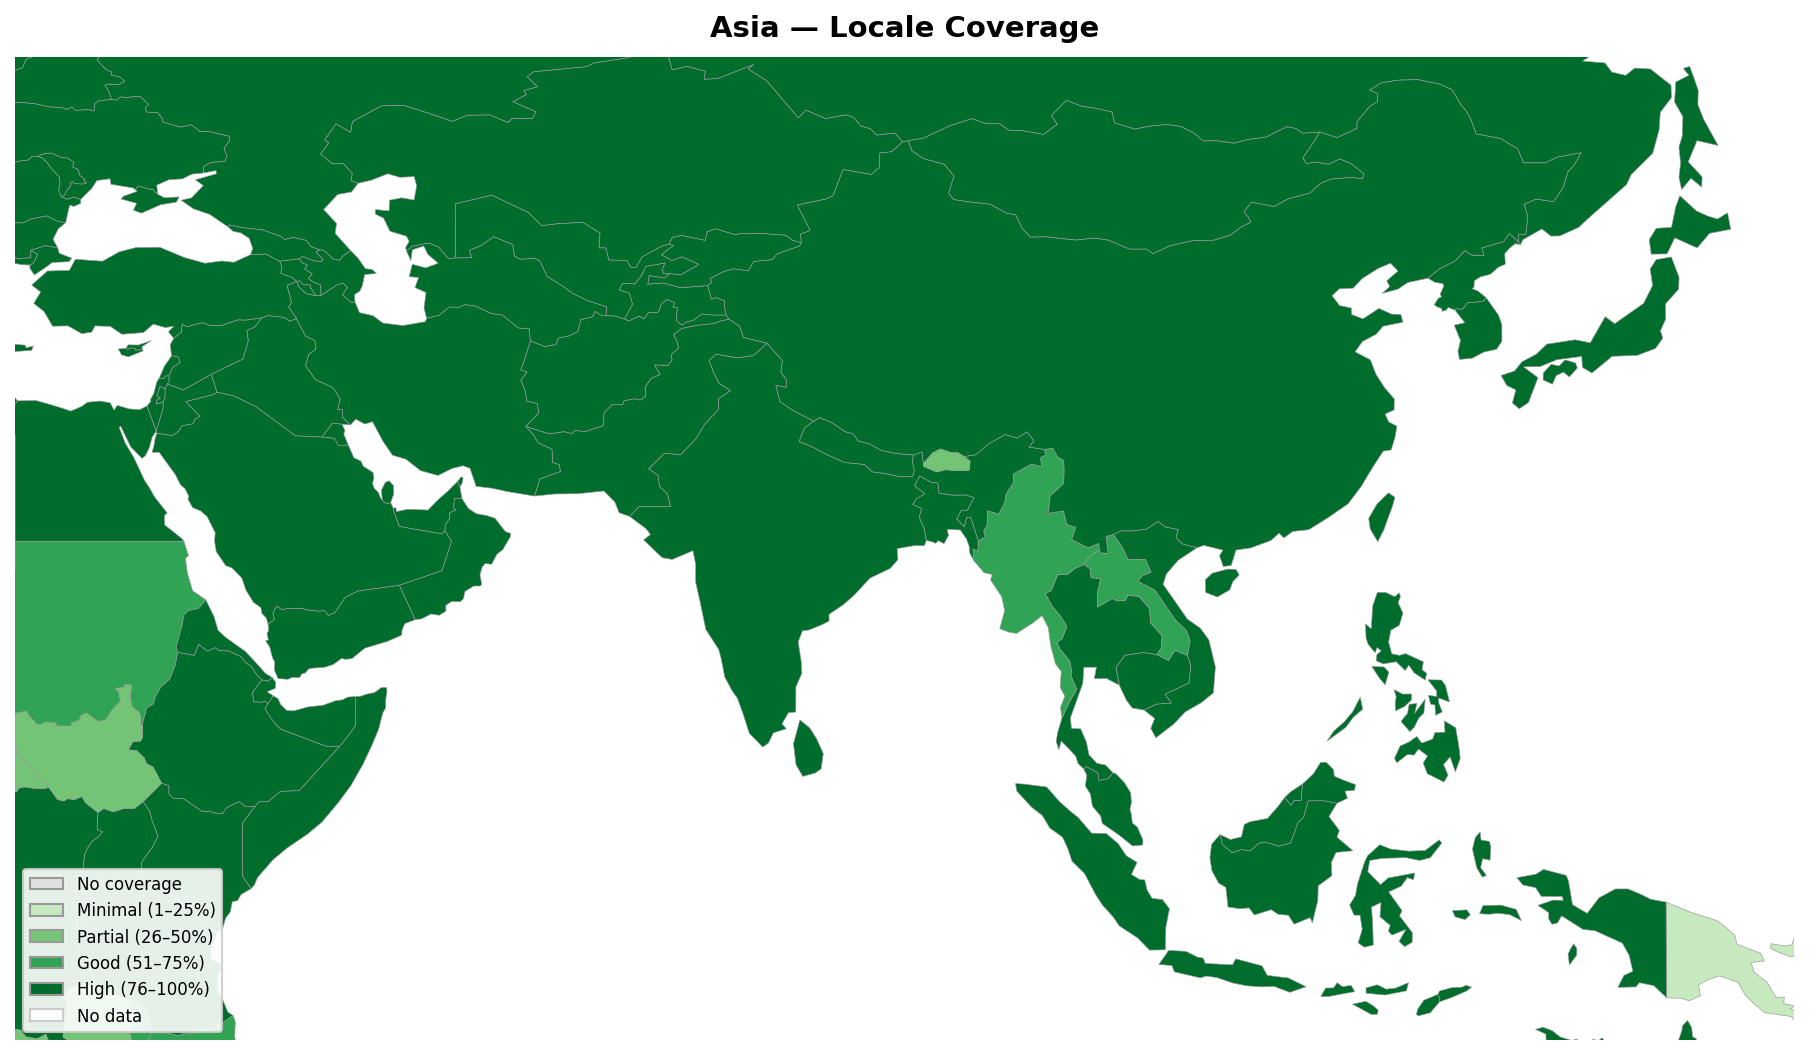
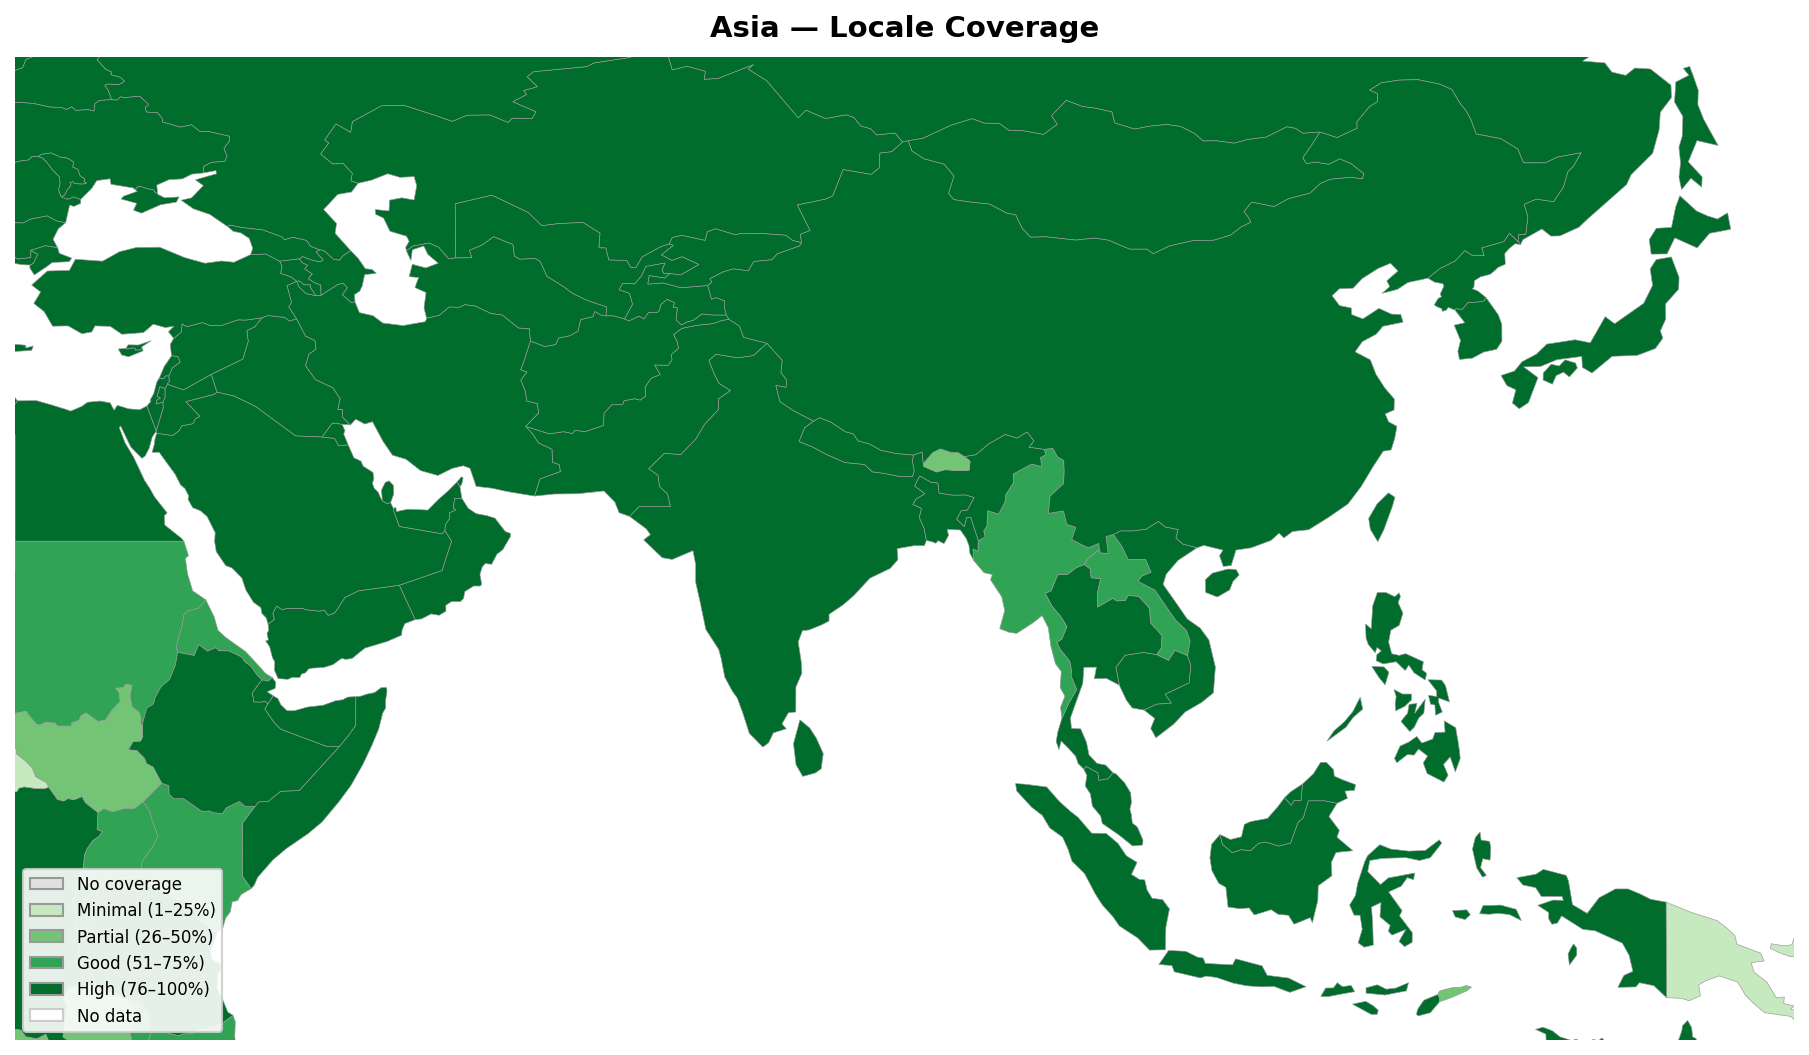
Fix coverage formula for multilingual countries
Coverage was `min(sum_supported, 1.0)`, which hid gaps in countries
where supported languages alone sum over 100% due to multilingual
overlap (e.g. Bolivia: Spanish 84% + Quechua 21% = 105% → showed
100%, hiding the 15% Aymara gap).

New formula: `supported_share / max(total_share, 1.0)`, which
correctly attributes multilingual overlap. Bolivia now shows 88%.

Also fixes the fallback in _coverage_bin which returned a float
instead of a color string.

Changed region(s): [[0.031, 0.728, 0.1548, 0.8493], [0.0929, 0.5763, 0.1548, 0.637], [0.0, 0.728, 0.031, 0.7583]]

diff --git a/tools/geography/generate.py b/tools/geography/generate.py
@@ -50,7 +50,7 @@ _BINS = [
     (0.01, 0.25, "#c7e9c0", "Minimal (1–25%)"),
     (0.26, 0.50, "#74c476", "Partial (26–50%)"),
     (0.51, 0.75, "#31a354", "Good (51–75%)"),
-    (0.76, 1.00, "#006d2c", "High (76–100%)"),
+    (0.76, 1.01, "#006d2c", "High (76–100%)"),
 ]
 
 _NO_DATA_COLOR = "#ffffff"
@@ -122,13 +122,22 @@ def _load_countries() -> dict[str, dict]:
 # ---------------------------------------------------------------------------
 
 def _coverage(country: dict, supported: set[str]) -> float:
-    """Fraction of population covered (capped at 1.0)."""
-    total = sum(
+    """Fraction of population covered.
+
+    In multilingual countries, language proportions sum > 1.0 because
+    individuals speak multiple languages.  We compute coverage as the
+    ratio of supported-language share to total share, which correctly
+    attributes multilingual overlap.  When all languages sum <= 1.0
+    (remaining population speaks unlisted languages), the supported
+    share is used directly.
+    """
+    supported_share = sum(
         lang["proportion"]
         for lang in country["languages"]
         if lang["code"] in supported
     )
-    return min(total, 1.0)
+    total_share = sum(lang["proportion"] for lang in country["languages"])
+    return min(supported_share / max(total_share, 1.0), 1.0)
 
 
 def _coverage_bin(value: float) -> tuple[str, str]:
@@ -136,7 +145,7 @@ def _coverage_bin(value: float) -> tuple[str, str]:
     for lo, hi, color, label in _BINS:
         if lo <= value <= hi:
             return color, label
-    return _BINS[-1][1], _BINS[-1][2]
+    return _BINS[-1][2], _BINS[-1][3]
 
 
 # ---------------------------------------------------------------------------

diff --git a/docs/geography/africa.md b/docs/geography/africa.md
@@ -9,64 +9,64 @@
 ## Summary
 
 - **Countries**: 52
-- **Average coverage**: 69%
+- **Average coverage**: 64%
 
 ## Countries
 
 | Country | Coverage | Covered Languages | Uncovered Languages |
 |---------|:--------:|-------------------|---------------------|
 | Algeria | 100% | Arabic (72%), Tamazight (27%), French (33%) | — |
-| Angola | 74% | Portuguese (71%), Lingala (3%) | Umbundu (17%), Kimbundu (11%), Kikongo/Kituba (7%), Chokwe (7%) |
+| Angola | 64% | Portuguese (71%), Lingala (3%) | Umbundu (17%), Kimbundu (11%), Kikongo/Kituba (7%), Chokwe (7%) |
 | Benin | 47% | French (35%), Yoruba (12%) | Fon (24%), Bariba (10%), Aja (8%) |
-| Botswana | 32% | English (30%), Shona (2%) | Tswana (78%), Kalanga (17%) |
+| Botswana | 25% | English (30%), Shona (2%) | Tswana (78%), Kalanga (17%) |
 | Burkina Faso | 33% | French (25%), Fulfulde (8%) | Moore (Mossi) (52%), Dyula (6%), Gourmanche (6%) |
 | Burundi | 100% | Kirundi (97%), French (8%), Swahili (2%), English (3%) | — |
-| Cameroon | 86% | French (57%), English (22%), Fulfulde (7%) | Bamileke languages (15%), Ewondo (8%) |
-| Central African Republic | 28% | French (23%), Lingala (5%) | Sango (92%) |
+| Cameroon | 79% | French (57%), English (22%), Fulfulde (7%) | Bamileke languages (15%), Ewondo (8%) |
+| Central African Republic | 23% | French (23%), Lingala (5%) | Sango (92%) |
 | Chad | 39% | French (13%), Arabic (26%) | Sara (Ngambay) (31%), Kanuri (10%) |
-| Comoros | 35% | Arabic (20%), French (15%) | Comorian (Shikomori) (97%) |
-| Congo | 90% | French (60%), Lingala (30%) | Kituba (Munukutuba) (50%) |
+| Comoros | 27% | Arabic (20%), French (15%) | Comorian (Shikomori) (97%) |
+| Congo | 64% | French (60%), Lingala (30%) | Kituba (Munukutuba) (50%) |
 | Cote d'Ivoire | 34% | French (34%) | Baoule (17%), Dyula (15%), Senufo (9%), Bete (6%) |
-| Democratic Republic of the Congo | 90% | French (51%), Lingala (20%), Swahili (15%), Luganda (4%) | Kituba (Kikongo) (10%), Tshiluba (6%) |
+| Democratic Republic of the Congo | 85% | French (51%), Lingala (20%), Swahili (15%), Luganda (4%) | Kituba (Kikongo) (10%), Tshiluba (6%) |
 | Djibouti | 100% | French (34%), Arabic (11%), Somali (60%), Afar (34%) | — |
 | Egypt | 100% | Arabic (94%), English (14%), French (3%) | — |
 | Equatorial Guinea | 100% | Spanish (68%), French (27%), Portuguese (5%) | — |
-| Eritrea | 80% | Tigrinya (55%), Arabic (20%), English (5%) | Tigre (30%) |
-| Eswatini | 20% | English (20%) | Swazi (siSwati) (95%) |
+| Eritrea | 73% | Tigrinya (55%), Arabic (20%), English (5%) | Tigre (30%) |
+| Eswatini | 17% | English (20%) | Swazi (siSwati) (95%) |
 | Ethiopia | 83% | Amharic (32%), Oromo (34%), Somali (6%), Tigrinya (6%), English (5%) | — |
-| Gabon | 80% | French (80%) | Fang (32%) |
-| Gambia | 40% | English (20%), Fulfulde (18%), Yoruba (2%) | Mandinka (38%), Wolof (18%), Soninke (9%) |
-| Ghana | 100% | English (58%), Akan (44%), Hausa (5%), Igbo (1%), Yoruba (1%) | Ewe (13%), Ga-Dangme (7%), Dagbani (5%) |
-| Guinea | 79% | French (25%), Fulfulde (33%), Susu (21%) | Maninka (23%) |
-| Guinea-Bissau | 30% | Portuguese (14%), Fulfulde (16%) | Guinea-Bissau Creole (50%), Balanta (22%), Mandinka (7%) |
-| Kenya | 100% | Swahili (67%), English (31%), Ganda (1%), Somali (1%) | Kikuyu (17%), Luhya (14%), Kalenjin (13%), Dholuo (Luo) (11%), Kamba (10%) |
-| Lesotho | 32% | English (30%), Zulu (2%) | Sesotho (Southern Sotho) (90%) |
+| Gabon | 71% | French (80%) | Fang (32%) |
+| Gambia | 38% | English (20%), Fulfulde (18%), Yoruba (2%) | Mandinka (38%), Wolof (18%), Soninke (9%) |
+| Ghana | 81% | English (58%), Akan (44%), Hausa (5%), Igbo (1%), Yoruba (1%) | Ewe (13%), Ga-Dangme (7%), Dagbani (5%) |
+| Guinea | 77% | French (25%), Fulfulde (33%), Susu (21%) | Maninka (23%) |
+| Guinea-Bissau | 28% | Portuguese (14%), Fulfulde (16%) | Guinea-Bissau Creole (50%), Balanta (22%), Mandinka (7%) |
+| Kenya | 61% | Swahili (67%), English (31%), Ganda (1%), Somali (1%) | Kikuyu (17%), Luhya (14%), Kalenjin (13%), Dholuo (Luo) (11%), Kamba (10%) |
+| Lesotho | 26% | English (30%), Zulu (2%) | Sesotho (Southern Sotho) (90%) |
 | Liberia | 20% | English (20%) | Kpelle (20%), Bassa (13%), Grebo (10%), Dan (Gio) (8%), Mano (8%) |
 | Libya | 95% | Arabic (95%) | — |
 | Madagascar | 100% | Malagasy (95%), French (20%), English (5%) | — |
-| Malawi | 72% | Chewa (57%), English (15%) | Lomwe (15%), Yao (14%), Tumbuka (9%) |
+| Malawi | 65% | Chewa (57%), English (15%) | Lomwe (15%), Yao (14%), Tumbuka (9%) |
 | Mali | 34% | French (20%), Fulfulde (14%) | Bambara (50%), Soninke (9%) |
 | Mauritania | 100% | Arabic (80%), French (15%), Fulfulde (8%) | — |
-| Mauritius | 100% | English (50%), French (73%), Hindi (3%) | Mauritian Creole (87%) |
+| Mauritius | 59% | English (50%), French (73%), Hindi (3%) | Mauritian Creole (87%) |
 | Morocco | 100% | Arabic (65%), Tamazight (26%), French (33%) | — |
 | Mozambique | 56% | Portuguese (50%), Swahili (6%) | Makhuwa (26%), Tsonga (9%), Sena (7%) |
-| Namibia | 29% | English (17%), Afrikaans (11%), German (1%) | Oshiwambo (49%), Khoekhoegowab (Nama/Damara) (11%), RuKwangali (9%), Otjiherero (9%) |
-| Niger | 73% | French (13%), Hausa (53%), Fulfulde (6%), Arabic (1%) | Zarma-Songhay (21%), Tamasheq (9%) |
-| Nigeria | 100% | English (53%), Hausa (27%), Yoruba (15%), Igbo (12%), Fulfulde (5%) | Ijaw languages (10%), Kanuri (5%), Tiv (5%), Ibibio (5%) |
+| Namibia | 27% | English (17%), Afrikaans (11%), German (1%) | Oshiwambo (49%), Khoekhoegowab (Nama/Damara) (11%), RuKwangali (9%), Otjiherero (9%) |
+| Niger | 71% | French (13%), Hausa (53%), Fulfulde (6%), Arabic (1%) | Zarma-Songhay (21%), Tamasheq (9%) |
+| Nigeria | 82% | English (53%), Hausa (27%), Yoruba (15%), Igbo (12%), Fulfulde (5%) | Ijaw languages (10%), Kanuri (5%), Tiv (5%), Ibibio (5%) |
 | Rwanda | 100% | Kinyarwanda (93%), French (8%), English (15%), Swahili (2%) | — |
-| Senegal | 49% | French (26%), Fulfulde (23%) | Wolof (50%), Serer (11%), Soninke (5%) |
+| Senegal | 43% | French (26%), Fulfulde (23%) | Wolof (50%), Serer (11%), Soninke (5%) |
 | Sierra Leone | 20% | English (20%) | Mende (31%), Temne (32%), Krio (10%) |
 | Somalia | 100% | Somali (95%), Arabic (20%), English (5%) | — |
-| South Africa | 63% | Zulu (23%), Xhosa (16%), Afrikaans (13%), English (10%), Shona (1%) | Northern Sotho (Sepedi) (10%), Tswana (8%), Southern Sotho (8%), Tsonga (5%), Swazi (siSwati) (3%), Venda (2%), Southern Ndebele (2%) |
+| South Africa | 62% | Zulu (23%), Xhosa (16%), Afrikaans (13%), English (10%), Shona (1%) | Northern Sotho (Sepedi) (10%), Tswana (8%), Southern Sotho (8%), Tsonga (5%), Swazi (siSwati) (3%), Venda (2%), Southern Ndebele (2%) |
 | South Sudan | 27% | English (10%), Arabic (15%), Swahili (2%) | Dinka (36%), Nuer (16%), Bari (7%), Zande (6%), Shilluk (5%) |
-| Sudan | 75% | Arabic (70%), English (5%) | Beja (12%), Nubian languages (8%), Fur (6%) |
-| Tanzania | 100% | Swahili (90%), English (15%) | Sukuma (16%) |
+| Sudan | 74% | Arabic (70%), English (5%) | Beja (12%), Nubian languages (8%), Fur (6%) |
+| Tanzania | 87% | Swahili (90%), English (15%) | Sukuma (16%) |
 | Togo | 37% | French (37%) | Ewe (26%), Kabiye (27%) |
 | Tunisia | 100% | Arabic (93%), French (52%), English (8%) | — |
-| Uganda | 78% | English (30%), Swahili (30%), Luganda (16%), Chewa (2%) | Nyankore (Runyankole) (10%), Soga (Lusoga) (10%), Teso (10%), Lango (6%), Acholi (5%) |
+| Uganda | 66% | English (30%), Swahili (30%), Luganda (16%), Chewa (2%) | Nyankore (Runyankole) (10%), Soga (Lusoga) (10%), Teso (10%), Lango (6%), Acholi (5%) |
 | Western Sahara | 90% | Arabic (90%) | — |
 | Zambia | 35% | English (20%), Chewa (15%) | Bemba (35%), Tonga (12%), Lozi (6%) |
-| Zimbabwe | 100% | English (30%), Shona (70%) | Northern Ndebele (16%) |
+| Zimbabwe | 86% | English (30%), Shona (70%) | Northern Ndebele (16%) |
 
 ---
 

diff --git a/docs/geography/asia.md b/docs/geography/asia.md
@@ -39,7 +39,7 @@
 | Laos | 59% | Lao (53%), French (3%), English (3%) | Khmu (11%), Hmong (9%) |
 | Lebanon | 100% | Arabic (93%), French (40%), English (30%), Armenian (4%) | — |
 | Malaysia | 100% | Malay (69%), English (50%), Chinese (23%), Tamil (7%) | — |
-| Maldives | 25% | English (25%) | Dhivehi (Maldivian) (99%) |
+| Maldives | 20% | English (25%) | Dhivehi (Maldivian) (99%) |
 | Mongolia | 100% | Mongolian (95%), Russian (5%), English (10%) | — |
 | Myanmar | 73% | Burmese (68%), English (5%) | Shan (9%), Karen languages (7%) |
 | Nepal | 93% | Nepali (77%), Hindi (8%), English (8%) | — |
@@ -57,7 +57,7 @@
 | Taiwan | 100% | Chinese (Mandarin) (83%), English (28%), Japanese (6%) | — |
 | Tajikistan | 100% | Tajik (80%), Russian (28%), Uzbek (17%) | — |
 | Thailand | 100% | Thai (92%), Malay (3%), English (15%), Chinese (11%) | — |
-| Timor-Leste | 88% | Portuguese (36%), Indonesian (36%), English (16%) | Tetum (91%) |
+| Timor-Leste | 49% | Portuguese (36%), Indonesian (36%), English (16%) | Tetum (91%) |
 | Turkey | 100% | Turkish (88%), Kurdish (12%), Arabic (2%), English (17%) | — |
 | Turkmenistan | 100% | Turkmen (85%), Russian (12%), Uzbek (5%) | — |
 | United Arab Emirates | 100% | Arabic (40%), English (70%), Hindi (15%), Urdu (10%), Malayalam (8%), Filipino (6%), Bengali (4%) | — |

diff --git a/docs/geography/README.md b/docs/geography/README.md
@@ -11,22 +11,22 @@ How well do Sayable's locales cover the world's languages?
 | Metric | Count |
 |--------|------:|
 | Countries tracked | 178 |
-| 100% coverage | 104 |
-| 76–100% (high) | 145 |
-| 51–75% (good) | 155 |
-| 1–50% (some) | 23 |
+| 100% coverage | 96 |
+| 76–100% (high) | 135 |
+| 51–75% (good) | 154 |
+| 1–50% (some) | 24 |
 | 0% (none) | 0 |
 
 ## By Continent
 
 | Continent | Countries | Avg Coverage | Details |
 |-----------|----------:|-------------:|--------:|
-| Africa | 52 | 69% | [Africa](africa.md) |
+| Africa | 52 | 64% | [Africa](africa.md) |
 | Asia | 49 | 94% | [Asia](asia.md) |
 | Europe | 39 | 98% | [Europe](europe.md) |
-| North America | 19 | 98% | [North America](north-america.md) |
-| Oceania | 7 | 65% | [Oceania](oceania.md) |
-| South America | 12 | 98% | [South America](south-america.md) |
+| North America | 19 | 95% | [North America](north-america.md) |
+| Oceania | 7 | 62% | [Oceania](oceania.md) |
+| South America | 12 | 97% | [South America](south-america.md) |
 
 ## Supported Locales (110)
 

diff --git a/docs/geography/north-america.md b/docs/geography/north-america.md
@@ -9,7 +9,7 @@
 ## Summary
 
 - **Countries**: 19
-- **Average coverage**: 98%
+- **Average coverage**: 95%
 
 ## Countries
 
@@ -23,8 +23,8 @@
 | Cuba | 95% | Spanish (95%) | — |
 | Dominican Republic | 100% | Spanish (95%), English (8%) | — |
 | El Salvador | 99% | Spanish (99%) | — |
-| Greenland | 91% | Danish (66%), English (25%) | Kalaallisut (Greenlandic) (85%) |
-| Guatemala | 93% | Spanish (93%) | K'iche' (9%), Kaqchikel (8%), Mam (8%), Q'eqchi' (6%) |
+| Greenland | 52% | Danish (66%), English (25%) | Kalaallisut (Greenlandic) (85%) |
+| Guatemala | 75% | Spanish (93%) | K'iche' (9%), Kaqchikel (8%), Mam (8%), Q'eqchi' (6%) |
 | Haiti | 100% | Haitian Creole (96%), French (10%) | — |
 | Honduras | 100% | Spanish (98%), English (4%) | — |
 | Jamaica | 95% | English (95%) | — |

diff --git a/docs/geography/oceania.md b/docs/geography/oceania.md
@@ -9,14 +9,14 @@
 ## Summary
 
 - **Countries**: 7
-- **Average coverage**: 65%
+- **Average coverage**: 62%
 
 ## Countries
 
 | Country | Coverage | Covered Languages | Uncovered Languages |
 |---------|:--------:|-------------------|---------------------|
 | Australia | 85% | English (72%), Chinese (5%), Arabic (2%), Vietnamese (1%), Italian (1%), Greek (1%), Hindi (2%), Punjabi (1%) | — |
-| Fiji | 88% | English (55%), Hindi (33%) | Fijian (iTaukei) (54%) |
+| Fiji | 62% | English (55%), Hindi (33%) | Fijian (iTaukei) (54%) |
 | New Caledonia | 97% | French (97%) | — |
 | New Zealand | 100% | English (96%), Maori (4%), Chinese (4%), Hindi (3%) | — |
 | Papua New Guinea | 20% | English (20%) | Tok Pisin (68%) |

diff --git a/docs/geography/europe.md b/docs/geography/europe.md
@@ -36,7 +36,7 @@
 | Kosovo | 98% | Albanian (92%), Serbian (5%), Turkish (1%) | — |
 | Latvia | 100% | Latvian (62%), Russian (34%), English (46%) | — |
 | Lithuania | 100% | Lithuanian (85%), Russian (19%), Polish (6%), English (38%) | — |
-| Luxembourg | 100% | French (96%), German (71%), English (56%), Portuguese (13%) | Luxembourgish (49%) |
+| Luxembourg | 83% | French (96%), German (71%), English (56%), Portuguese (13%) | Luxembourgish (49%) |
 | Malta | 100% | Maltese (90%), English (89%), Italian (66%) | — |
 | Moldova | 100% | Romanian (76%), Russian (27%), Ukrainian (6%) | — |
 | Montenegro | 65% | Serbian (43%), Bosnian (15%), Albanian (5%), Croatian (2%) | Montenegrin (35%) |

diff --git a/docs/geography/south-america.md b/docs/geography/south-america.md
@@ -9,14 +9,14 @@
 ## Summary
 
 - **Countries**: 12
-- **Average coverage**: 98%
+- **Average coverage**: 97%
 
 ## Countries
 
 | Country | Coverage | Covered Languages | Uncovered Languages |
 |---------|:--------:|-------------------|---------------------|
 | Argentina | 100% | Spanish (97%), English (7%), Guarani (1%) | — |
-| Bolivia | 100% | Spanish (84%), Quechua (21%) | Aymara (15%) |
+| Bolivia | 88% | Spanish (84%), Quechua (21%) | Aymara (15%) |
 | Brazil | 100% | Portuguese (98%), English (5%), Spanish (4%), German (1%), Italian (1%), Japanese (1%) | — |
 | Chile | 100% | Spanish (95%), English (10%) | — |
 | Colombia | 100% | Spanish (99%), English (4%) | — |
